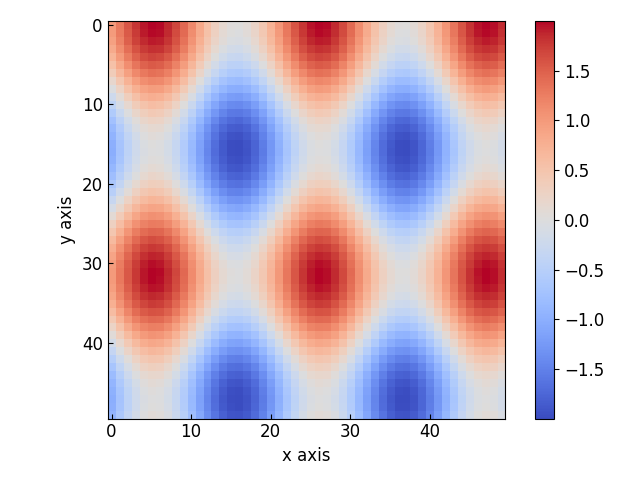
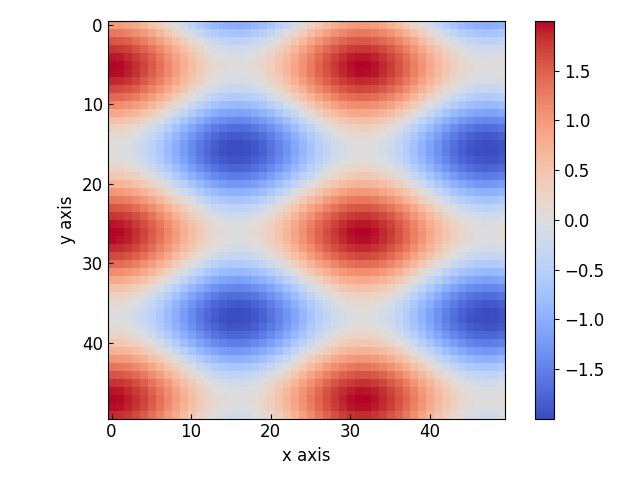
Code correction

diff --git a/docs/handbook/2D_plotting.rst b/docs/handbook/2D_plotting.rst
@@ -12,7 +12,7 @@ The :class:`~graphinglib.data_plotting_2d.Heatmap` Object
 
 The Heatmap class allows to plot a 2-dimensional map of values. It also allows to display images inside a set of axes. Here is how you can create a heatmap: ::
 
-    x_grid, y_grid = np.mgrid[:50, :50]
+    x_grid, y_grid = np.meshgrid(np.arange(0, 50, 1), np.arange(0, 50, 1))
     data = np.cos(x_grid * 0.2) + np.sin(y_grid * 0.3)
 
     map = gl.Heatmap(data)
@@ -25,7 +25,7 @@ The Heatmap class allows to plot a 2-dimensional map of values. It also allows t
 As for the :class:`~graphinglib.data_plotting_1d.Curve` and :class:`~graphinglib.data_plotting_1d.Scatter` objects, it is possible to create a Heatmap from a function with the :py:meth:`~graphinglib.data_plotting_2d.Heatmap.from_function` method: ::
 
     map = gl.Heatmap.from_function(
-        lambda y, x: np.cos(x * 0.2) + np.sin(y * 0.3), (0, 49), (49, 0)
+        lambda x, y: np.cos(x * 0.2) + np.sin(y * 0.3), (0, 49), (49, 0)
     )
 
 To display an image instead, simply create a Heatmap with the path to an image as a string instead of actual data: ::
